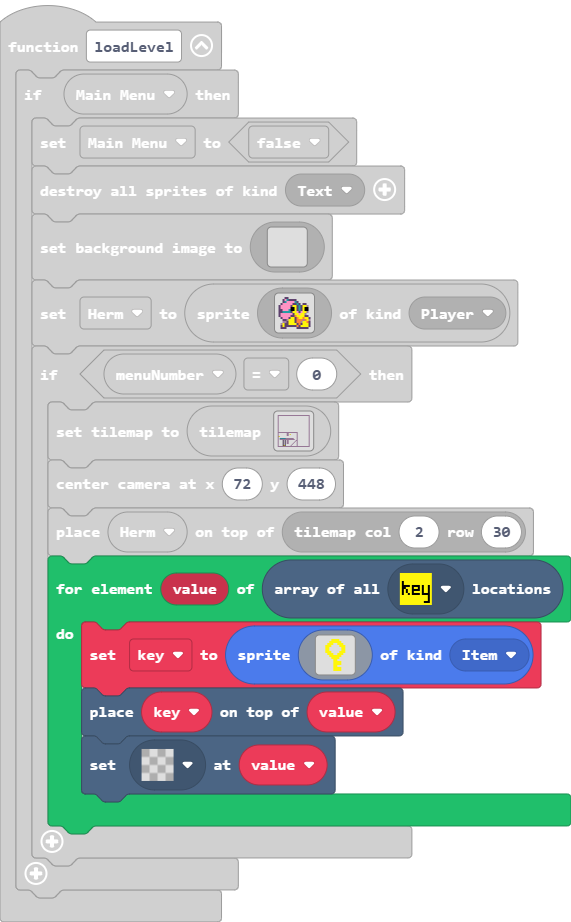
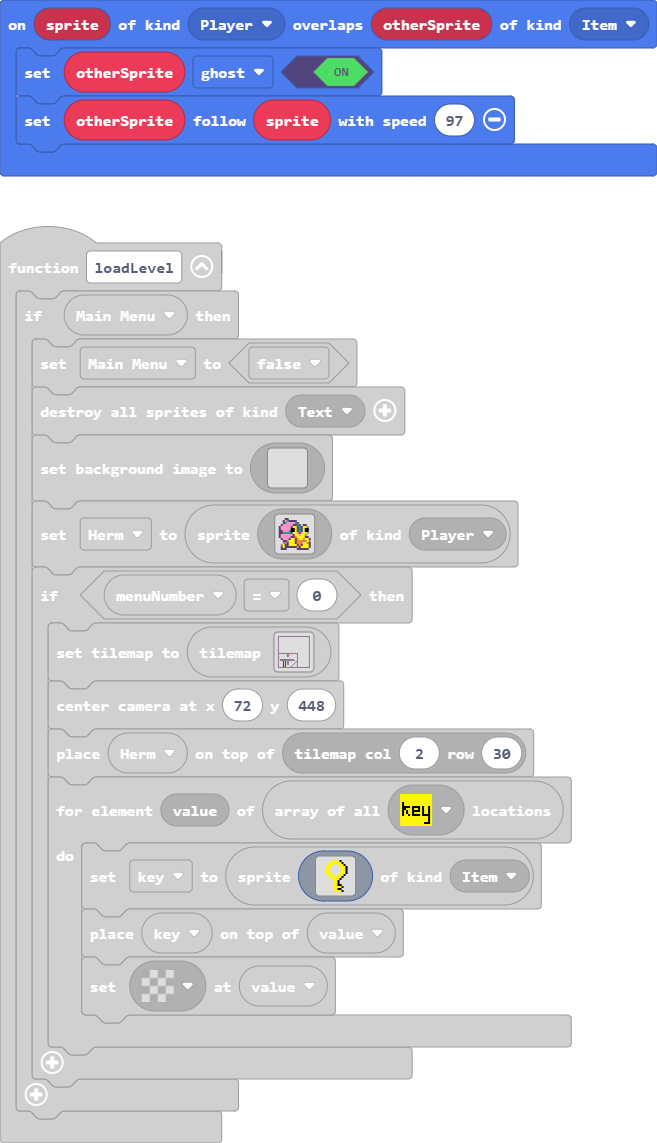
Update pxt.json, main.blocks, main.ts, tilemap.g.jres, tilemap.g.ts

diff --git a/tilemap.g.ts b/tilemap.g.ts
@@ -3,8 +3,6 @@ namespace myTiles {
     //% fixedInstance jres blockIdentity=images._tile
     export const transparency16 = image.ofBuffer(hex``);
     //% fixedInstance jres blockIdentity=images._tile
-    export const tile2 = image.ofBuffer(hex``);
-    //% fixedInstance jres blockIdentity=images._tile
     export const tile3 = image.ofBuffer(hex``);
     //% fixedInstance jres blockIdentity=images._tile
     export const tile5 = image.ofBuffer(hex``);
@@ -16,6 +14,8 @@ namespace myTiles {
     export const tile1 = image.ofBuffer(hex``);
     //% fixedInstance jres blockIdentity=images._tile
     export const tile4 = image.ofBuffer(hex``);
+    //% fixedInstance jres blockIdentity=images._tile
+    export const tile2 = image.ofBuffer(hex``);
 
     helpers._registerFactory("tilemap", function(name: string) {
         switch(helpers.stringTrim(name)) {
@@ -77,7 +77,7 @@ namespace myTiles {
 . . . . . . . . . . . . . . . . 
 `, [myTiles.transparency16], TileScale.Sixteen);
             case "level2":
-            case "level2":return tiles.createTilemap(hex`2000200001010101010101010101010101010101010101010101010101010101010101010100000000000000000000000000000000000000000000000000000000000001010000000000000000000000000000000000000000000000000000000000000101000000000000000000000000000000000000000000000000000000000000010100000000000000000000000000000000000000000000000000000000000001010000000000000000000000000000000000000000000000000000000000000101000000000000000000000000000000000000000000000000000000000000010100000000000000000000000000000000000000000000000000000000000001010000000000000000000000000000000000000000000000000000000000000101000000000000000000000000000000000000000000000000000000000000010100000000000000000000000000000000000000000000000000000000000001010000000000000000000000000000000000000000000000000000000000000101000000000000000000000000000000000000000000000000000000000000010100000000000000000000000000000000000000000000000000000000000001010000000000000000000000000000000000000000000000000000000000000101000000000000000000000000000000000000000000000000000000000000010100000000000000000000000000000000000000000000000000000000000001010101010101010101010101010101010101010100000000000000000000000101000000000000000001010000000000000000010000000000000000000000010100000000000000000101000300000000000001000000000000000000000001010000000000000000010100000000000000000100000000000000000000000101030000000000000000000000000000000000010000000000000000000000010100000000000000000000000000000000000001000000000000000000000001010002020202020201010101010101010000000100000000000000000000000101000101010101010101010101010101010000010000000000000000000000010100000000050005000101000000000000000101000000000000000000000001010000000004000400010100000000000001000100000000000000000000000101000000000400040001010000000000010000010000000000000000000000010100000000040004000101000000000100000001000000000000000000000001010000000004000400000000000001000000000100000000000000000000000101000000000603060000000000010000000000010000000000000000000000010101010101010101010101010101010101010101010101010101010101010101`, img`
+            case "level2":return tiles.createTilemap(hex`2000200001010101010101010101010101010101010101010101010101010101010101010100000000000000000000000000000000000000000000000000000000000001010000000000000000000000000000000000000000000000000000000000000101000000000000000000000000000000000000000000000000000000000000010100000000000000000000000000000000000000000000000000000000000001010000000000000000000000000000000000000000000000000000000000000101000000000000000000000000000000000000000000000000000000000000010100000000000000000000000000000000000000000000000000000000000001010000000000000000000000000000000000000000000000000000000000000101000000000000000000000000000000000000000000000000000000000000010100000000000000000000000000000000000000000000000000000000000001010000000000000000000000000000000000000000000000000000000000000101000000000000000000000000000000000000000000000000000000000000010100000000000000000000000000000000000000000000000000000000000001010000000000000000000000000000000000000000000000000000000000000101000000000000000000000000000000000000000000000000000000000000010100000000000000000000000000000000000000000000000000000000000001010101010101010101010101010101010101010100000000000000000000000101000000000000000001010000000000000000010000000000000000000000010100000000000000000101000300000000000001000000000000000000000001010000000000000000010100000000000000000100000000000000000000000101030000000000000000000000000000000000010000000000000000000000010100000000000000000000000000000000000001000000000000000000000001010001020202020201010101010101010000000100000000000000000000000101000101010101010101010101010101010000010000000000000000000000010100000000050005000101000000000000000101000000000000000000000001010000000004000400010100000000000001000100000000000000000000000101000000000400040001010000000000010000010000000000000000000000010100000000040004000101000000000100000001000000000000000000000001010000000004000400000000000001000000000100000000000000000000000101000000000603060000000000010000000000010000000000000000000000010101010101010101010101010101010101010101010101010101010101010101`, img`
 22222222222222222222222222222222
 2..............................2
 2..............................2
@@ -118,8 +118,6 @@ namespace myTiles {
     helpers._registerFactory("tile", function(name: string) {
         switch(helpers.stringTrim(name)) {
             case "transparency16":return transparency16;
-            case "myTile0":
-            case "tile2":return tile2;
             case "myTile1":
             case "tile3":return tile3;
             case "myTile3":
@@ -132,6 +130,8 @@ namespace myTiles {
             case "tile1":return tile1;
             case "myTile2":
             case "tile4":return tile4;
+            case "myTile0":
+            case "tile2":return tile2;
         }
         return null;
     })

diff --git a/main.ts b/main.ts
@@ -1,6 +1,10 @@
 namespace SpriteKind {
     export const Item = SpriteKind.create()
 }
+sprites.onOverlap(SpriteKind.Player, SpriteKind.Item, function (sprite, otherSprite) {
+    otherSprite.setFlag(SpriteFlag.Ghost, true)
+    otherSprite.follow(sprite, 97)
+})
 function menuChoice (chapter: number) {
     scene.setBackgroundImage(img`
         ................................................................................................................................................................
@@ -632,22 +636,22 @@ function loadLevel () {
             tiles.placeOnTile(Herm, tiles.getTileLocation(2, 30))
             for (let value of tiles.getTilesByType(assets.tile`myTile2`)) {
                 key = sprites.create(img`
-                    . . . . . . 5 5 5 5 . . . . . . 
-                    . . . . . 5 5 5 5 5 5 . . . . . 
-                    . . . . 5 5 5 . . 5 5 5 . . . . 
-                    . . . 5 5 5 . . . . 5 5 5 . . . 
-                    . . . 5 5 . . . . . . 5 5 . . . 
-                    . . . 5 5 . . . . . . 5 5 . . . 
-                    . . . 5 5 5 . . . . 5 5 5 . . . 
-                    . . . . 5 5 5 . . 5 5 5 . . . . 
-                    . . . . . 5 5 5 5 5 5 . . . . . 
-                    . . . . . . 5 5 5 5 . . . . . . 
-                    . . . . . . . 5 5 . . . . . . . 
-                    . . . . . . . 5 5 5 5 . . . . . 
-                    . . . . . . . 5 5 5 5 . . . . . 
-                    . . . . . . . 5 5 . . . . . . . 
-                    . . . . . . . 5 5 5 5 . . . . . 
-                    . . . . . . . 5 5 5 5 . . . . . 
+                    . . . . . . 5 5 5 5 f . . . . . 
+                    . . . . . 5 5 5 5 5 5 f . . . . 
+                    . . . . 5 5 5 . . 5 5 5 f . . . 
+                    . . . 5 5 5 . . . . 5 5 5 f . . 
+                    . . . 5 5 . . . . . . 5 5 f . . 
+                    . . . 5 5 . . . . . . 5 5 f . . 
+                    . . . 5 5 5 . . . . 5 5 5 f . . 
+                    . . . . 5 5 5 . . 5 5 5 f . . . 
+                    . . . . . 5 5 5 5 5 5 f . . . . 
+                    . . . . . . 5 5 5 5 f . . . . . 
+                    . . . . . . . 5 5 f . . . . . . 
+                    . . . . . . . 5 5 f . . . . . . 
+                    . . . . . . . 5 5 f f . . . . . 
+                    . . . . . . . 5 5 5 5 f . . . . 
+                    . . . . . . . 5 5 f f . . . . . 
+                    . . . . . . . 5 5 5 5 f . . . . 
                     `, SpriteKind.Item)
                 tiles.placeOnTile(key, value)
                 tiles.setTileAt(value, assets.tile`transparency16`)
